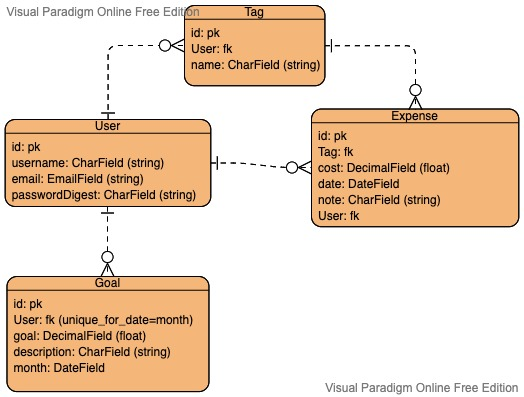
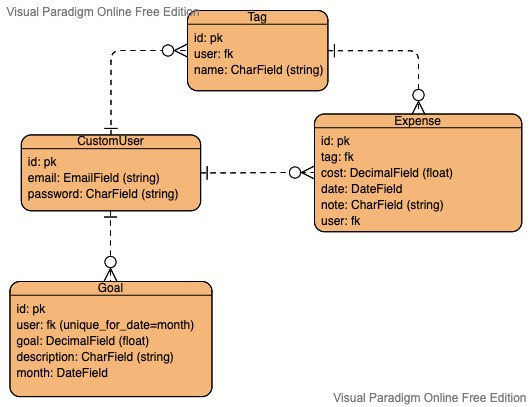
completed all serializers, urls, and views; migrated change to Goal model so goals can be unique for different months

Changed region(s): [[0.0, 0.0, 1.0, 0.9975], [0.6107, 0.9673, 0.9771, 0.9975]]

diff --git a/cached/views.py b/cached/views.py
@@ -5,10 +5,12 @@ from rest_framework.permissions import AllowAny, IsAdminUser
 from rest_framework.response import Response
 from .models import CustomUser, Tag, Expense, Goal
 from .serializers import (
+    GoalSerializer,
     RegisterUserSerializer,
     CustomUserSerializer, 
     TagSerializer, 
     ExpenseSerializer,
+    GoalSerializer
 )
 
 # Read only views using serializers
@@ -62,3 +64,15 @@ class CreateExpense(generics.CreateAPIView):
     #     self.perform_create(serializer)
     #     headers = self.get_success_headers(serializer.data)
     #     return Response(serializer.data, status=status.HTTP_201_CREATED, headers=headers)
+
+class UpdateDestroyExpense(generics.RetrieveUpdateDestroyAPIView):
+    queryset = Expense.objects.all()
+    serializer_class = ExpenseSerializer
+
+class CreateGoal(generics.CreateAPIView):
+    queryset = Goal.objects.all()
+    serializer_class = GoalSerializer
+
+class UpdateDestroyGoal(generics.RetrieveUpdateDestroyAPIView):
+    queryset = Goal.objects.all()
+    serializer_class = GoalSerializer

diff --git a/cached/urls.py b/cached/urls.py
@@ -6,6 +6,9 @@ urlpatterns = [
     path('listusers', views.ListUsers.as_view(), name='read_user_list'),
     path('user/<int:pk>', views.RetrieveUser.as_view(), name='read_user'),
     path('tag/create', views.CreateTag.as_view(), name='create_tag'),
-    path('tag/update/<int:pk>', views.UpdateDestroyTag.as_view(), name='update_destroy_tag'),
-    path('expense/create', views.CreateExpense.as_view(), name='create_expense')
+    path('tag/update/<int:pk>', views.UpdateDestroyTag.as_view(), name='update_tag'),
+    path('expense/create', views.CreateExpense.as_view(), name='create_expense'),
+    path('expense/update/<int:pk>', views.UpdateDestroyExpense.as_view(), name='update_expense'),
+    path('goal/create', views.CreateGoal.as_view(), name='create_goal'),
+    path('goal/update/<int:pk>', views.UpdateDestroyGoal.as_view(), name='update_goal'),
 ]

diff --git a/cached/migrations/0007_goal_user_identifier_alter_goal_user.py b/cached/migrations/0007_goal_user_identifier_alter_goal_user.py
@@ -1,0 +1,25 @@
+# Generated by Django 4.0.2 on 2022-02-10 03:44
+
+from django.conf import settings
+from django.db import migrations, models
+import django.db.models.deletion
+
+
+class Migration(migrations.Migration):
+
+    dependencies = [
+        ('cached', '0006_alter_goal_user'),
+    ]
+
+    operations = [
+        migrations.AddField(
+            model_name='goal',
+            name='user_identifier',
+            field=models.IntegerField(null=True, unique_for_date='month'),
+        ),
+        migrations.AlterField(
+            model_name='goal',
+            name='user',
+            field=models.ForeignKey(on_delete=django.db.models.deletion.CASCADE, related_name='goals', to=settings.AUTH_USER_MODEL),
+        ),
+    ]

diff --git a/cached/serializers.py b/cached/serializers.py
@@ -54,12 +54,11 @@ class ExpenseSerializer(serializers.ModelSerializer):
         model = Expense
         fields = '__all__'
 
-class UpdateDestroyExpenseSerializer(serializers.ModelSerializer):
-    class Meta:
-        model = Expense
-        fields = ('id', 'cost', 'date', 'note', 'user', 'tag')
-
-class UpdateDestroyGoalSerializer(serializers.ModelSerializer):
+class GoalSerializer(serializers.ModelSerializer):
+    user = serializers.PrimaryKeyRelatedField(
+        queryset = CustomUser.objects.all(),
+        many = False
+    )
     class Meta:
         model = Goal
-        fields = ('id', 'goal', 'description', 'month', 'user')
+        fields = '__all__'

diff --git a/cached/models.py b/cached/models.py
@@ -41,7 +41,12 @@ class Goal(models.Model):
     goal = models.DecimalField(max_digits=15, decimal_places=2)
     description = models.CharField(max_length=300, blank=True, null=True)
     month = models.DateField()
-    user = models.ForeignKey(CustomUser, on_delete=models.CASCADE, related_name='goals')
+    user_identifier = models.IntegerField(unique_for_date='month', null=True)
+    user = models.ForeignKey(
+        CustomUser, 
+        on_delete=models.CASCADE, 
+        related_name='goals'
+    )
     createdAt = models.DateTimeField(auto_now_add=True)
     updatedAt = models.DateTimeField(auto_now=True)
     def __str__(self):

diff --git a/cached/migrations/0005_alter_goal_user.py b/cached/migrations/0005_alter_goal_user.py
@@ -1,0 +1,20 @@
+# Generated by Django 4.0.2 on 2022-02-10 03:22
+
+from django.conf import settings
+from django.db import migrations, models
+import django.db.models.deletion
+
+
+class Migration(migrations.Migration):
+
+    dependencies = [
+        ('cached', '0004_alter_expense_cost_alter_goal_goal'),
+    ]
+
+    operations = [
+        migrations.AlterField(
+            model_name='goal',
+            name='user',
+            field=models.ForeignKey(on_delete=django.db.models.deletion.CASCADE, related_name='goals', to=settings.AUTH_USER_MODEL, unique_for_date=models.DateField()),
+        ),
+    ]

diff --git a/cached/migrations/0006_alter_goal_user.py b/cached/migrations/0006_alter_goal_user.py
@@ -1,0 +1,20 @@
+# Generated by Django 4.0.2 on 2022-02-10 03:27
+
+from django.conf import settings
+from django.db import migrations, models
+import django.db.models.deletion
+
+
+class Migration(migrations.Migration):
+
+    dependencies = [
+        ('cached', '0005_alter_goal_user'),
+    ]
+
+    operations = [
+        migrations.AlterField(
+            model_name='goal',
+            name='user',
+            field=models.ForeignKey(on_delete=django.db.models.deletion.CASCADE, related_name='goals', to=settings.AUTH_USER_MODEL, unique_for_date='month'),
+        ),
+    ]

diff --git a/cached/migrations/0008_alter_goal_user_identifier.py b/cached/migrations/0008_alter_goal_user_identifier.py
@@ -1,0 +1,18 @@
+# Generated by Django 4.0.2 on 2022-02-10 03:49
+
+from django.db import migrations, models
+
+
+class Migration(migrations.Migration):
+
+    dependencies = [
+        ('cached', '0007_goal_user_identifier_alter_goal_user'),
+    ]
+
+    operations = [
+        migrations.AlterField(
+            model_name='goal',
+            name='user_identifier',
+            field=models.IntegerField(unique_for_date='month'),
+        ),
+    ]
